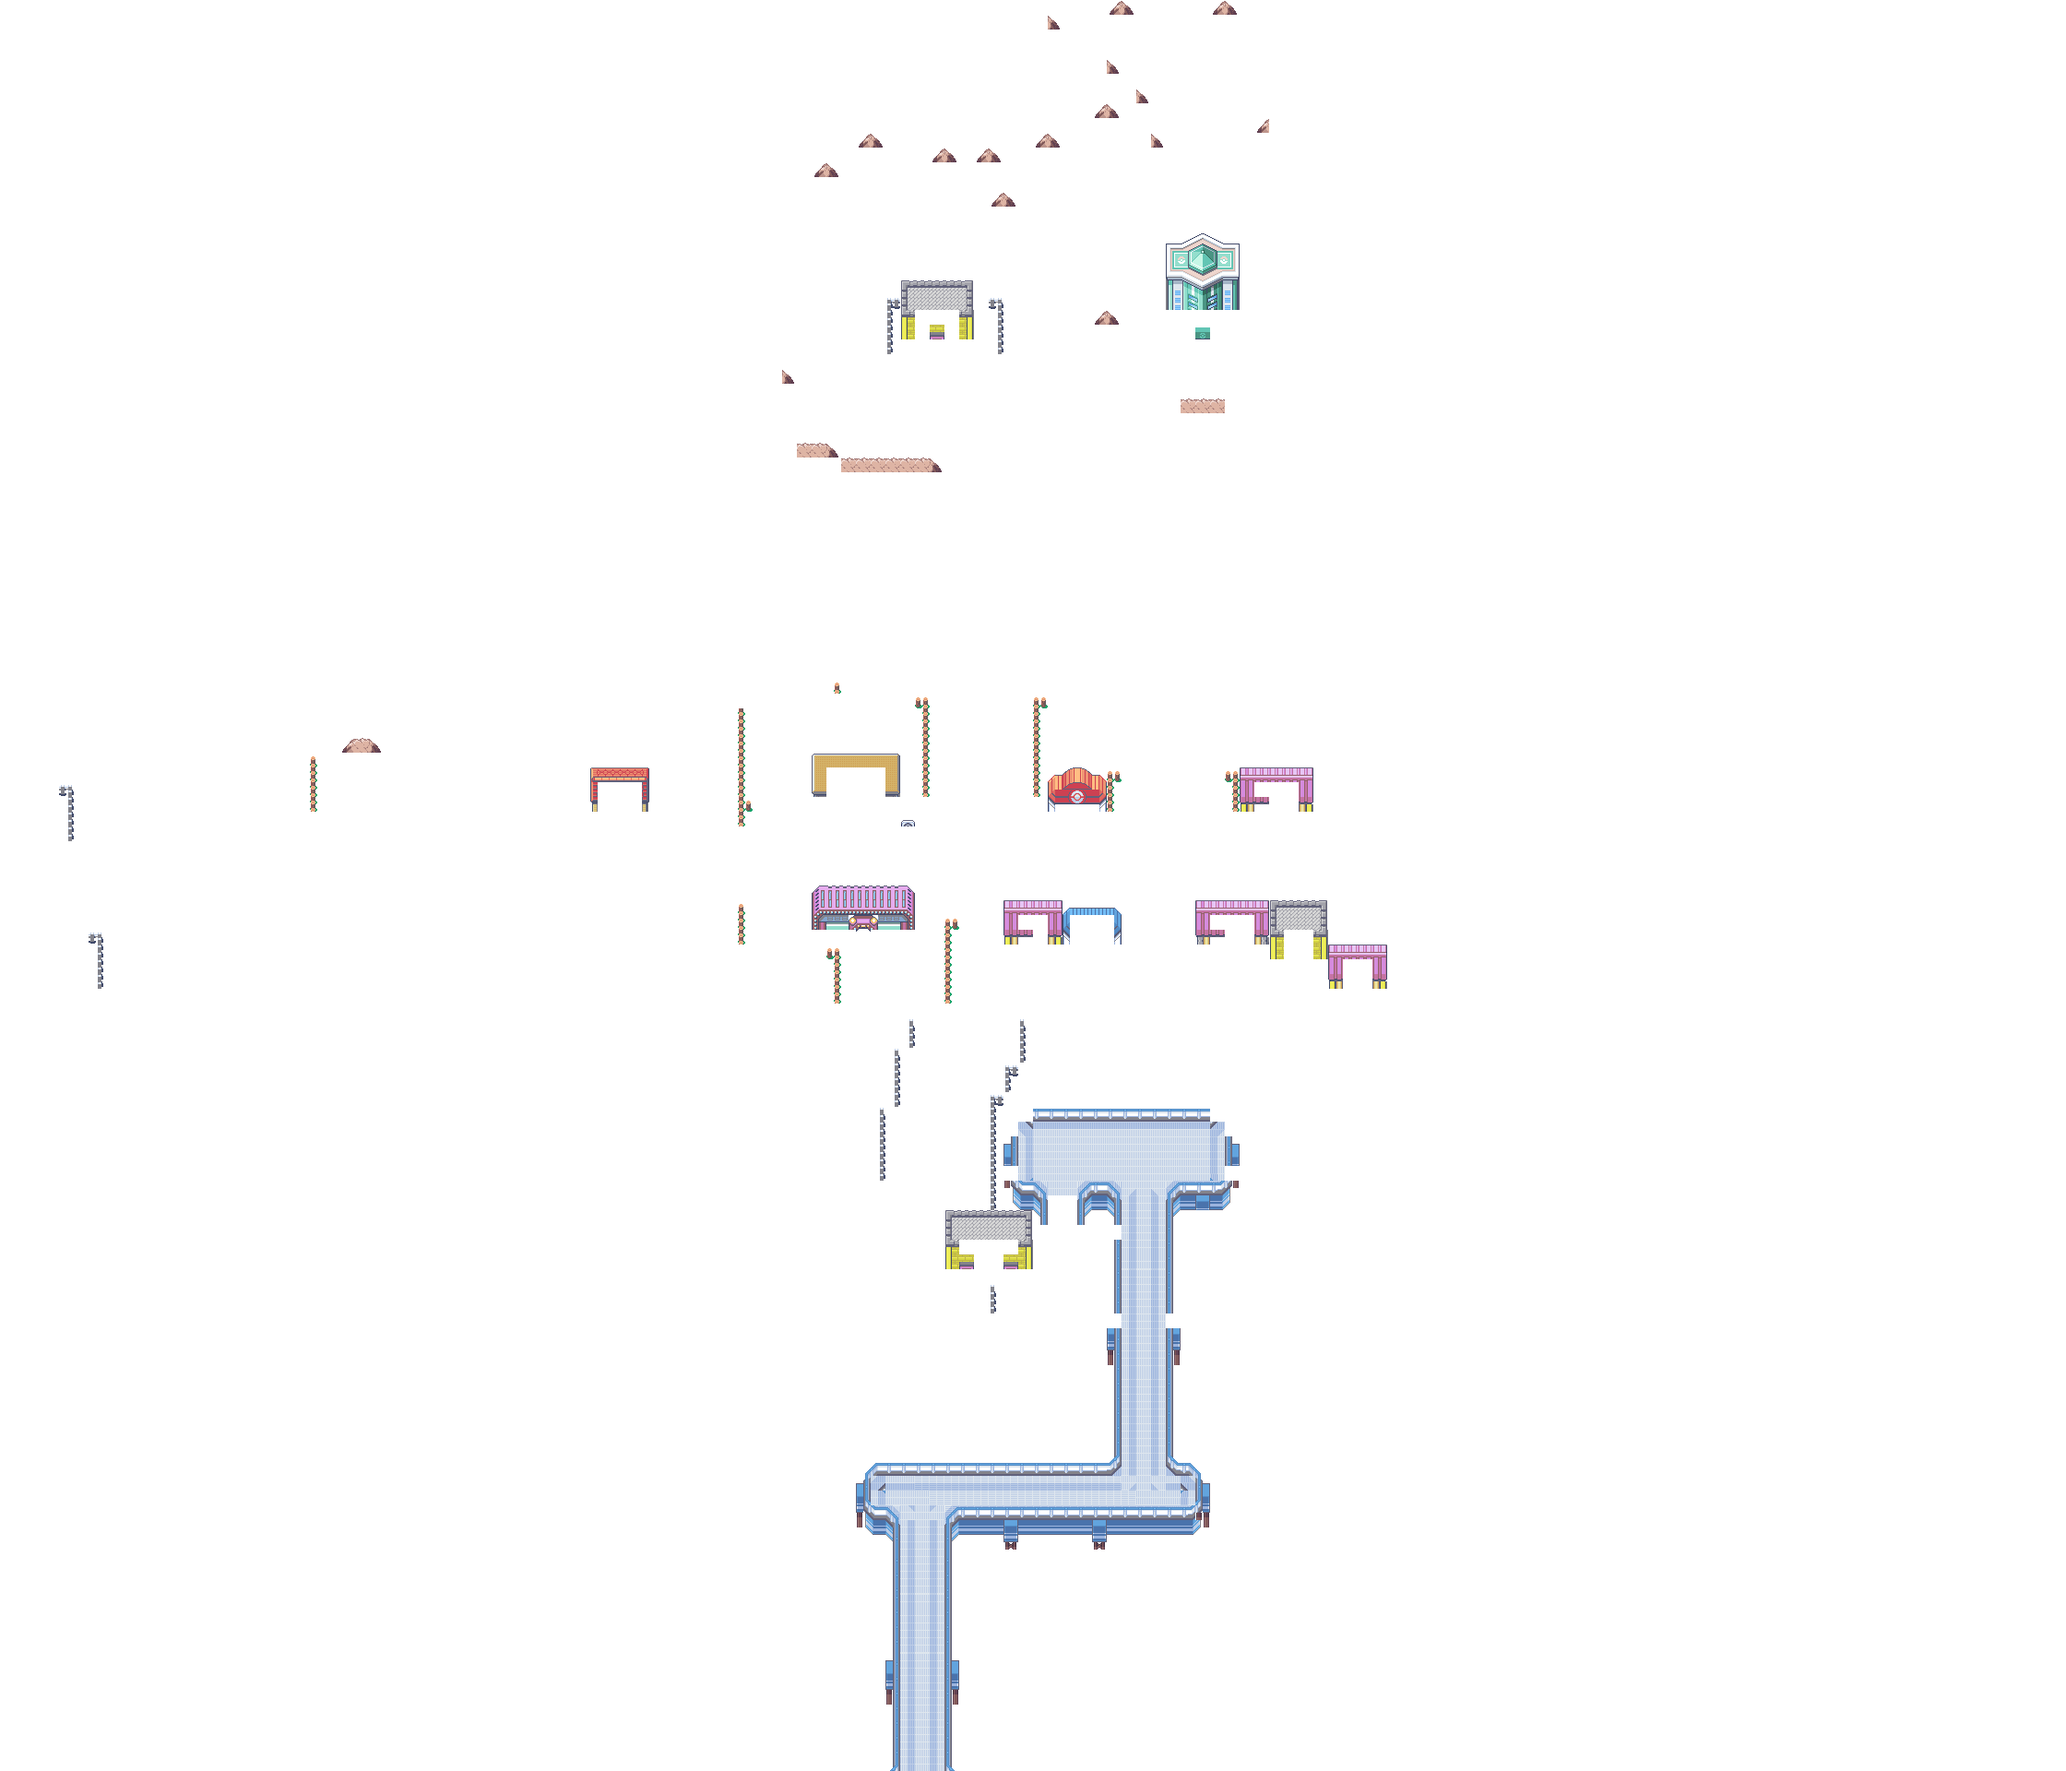
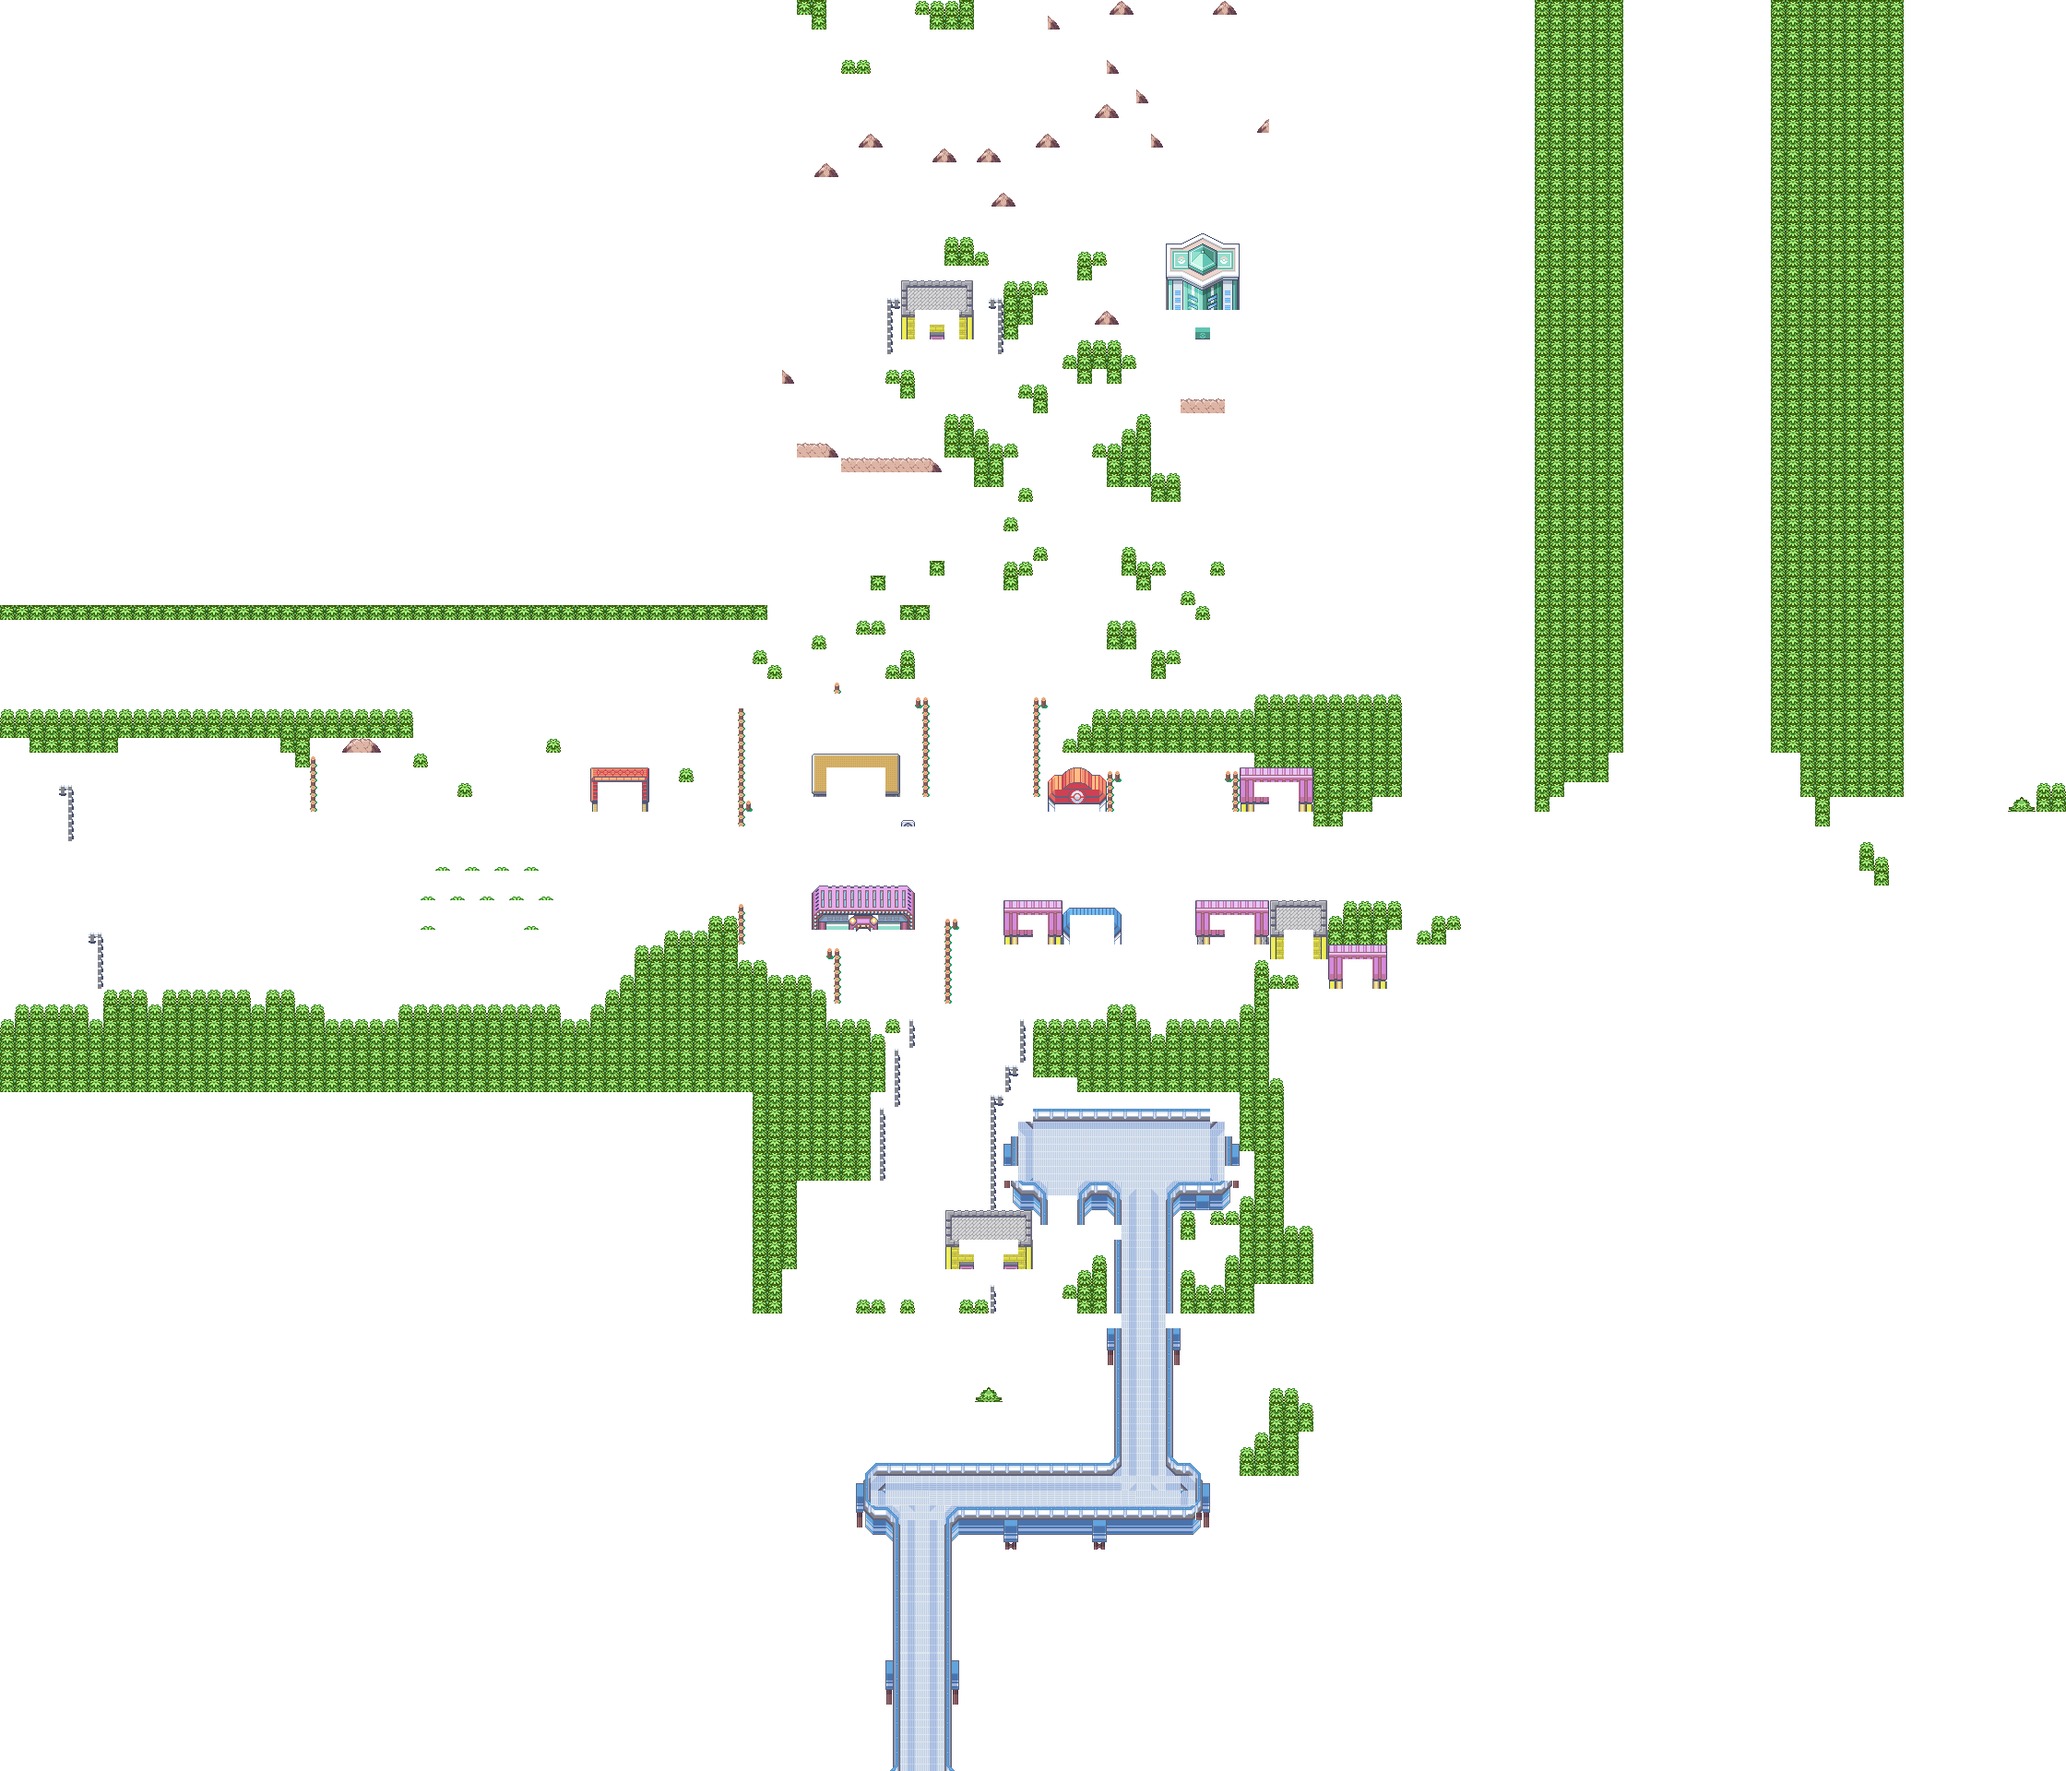
fix(editor): restore missing trees + wire foreground toggle to top sprites
Two bugs introduced by the foreground layer split:

1. The grass-stripping script was removing all 1845 tree tiles because
   they use identical grass-palette colors. Only 9 tiles (mixed: fence
   posts with grass baked in) actually needed stripping. Now the script
   only strips from mixed tiles, leaving pure-grass-palette tiles
   (trees) completely intact.

2. The View → Foreground toggle was controlling the old single-image
   foregroundImage (now null), not the per-tile topSprites. Toggling
   did nothing on the overworld. Now it iterates topSprites and toggles
   visibility for each.

Before: 688 top sprites visible (trees all gone)
After:  2533 top sprites visible (everything restored)

diff --git a/src/game/scenes/EditorScene.ts b/src/game/scenes/EditorScene.ts
@@ -1126,6 +1126,13 @@ export class EditorScene extends Phaser.Scene {
         break;
       case "foreground":
         this.foregroundVisible = visible;
+        // Control per-tile foreground sprites (which replaced the single image).
+        // Only sprites rendered for the overworld Mauville foreground respond here;
+        // interior map top sprites (furniture) are kept always visible since they
+        // aren't a "foreground layer" conceptually.
+        if (this.currentMapId === "mauville") {
+          for (const s of this.topSprites) s.setVisible(visible);
+        }
         if (this.foregroundImage) this.foregroundImage.setVisible(visible);
         break;
       case "grid":
